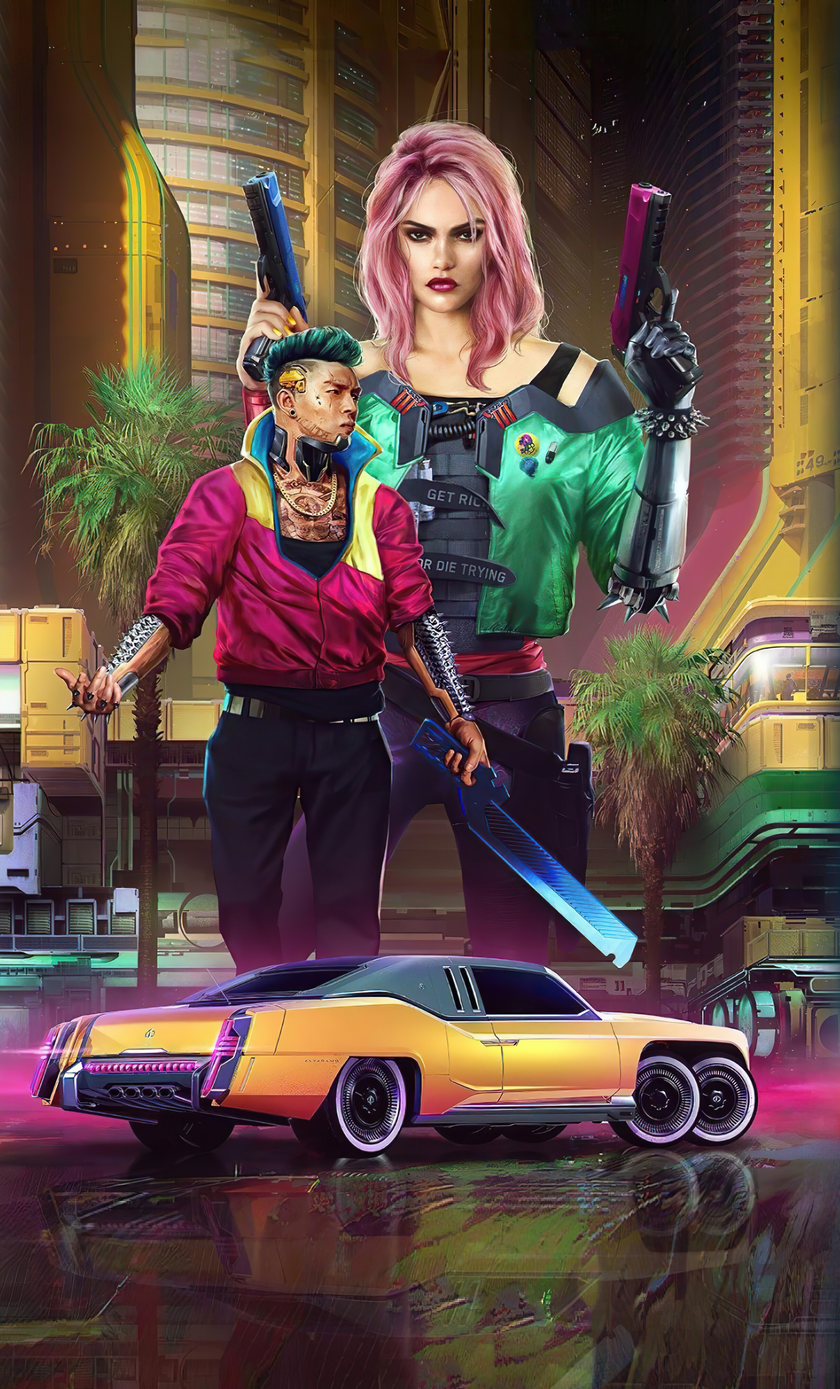
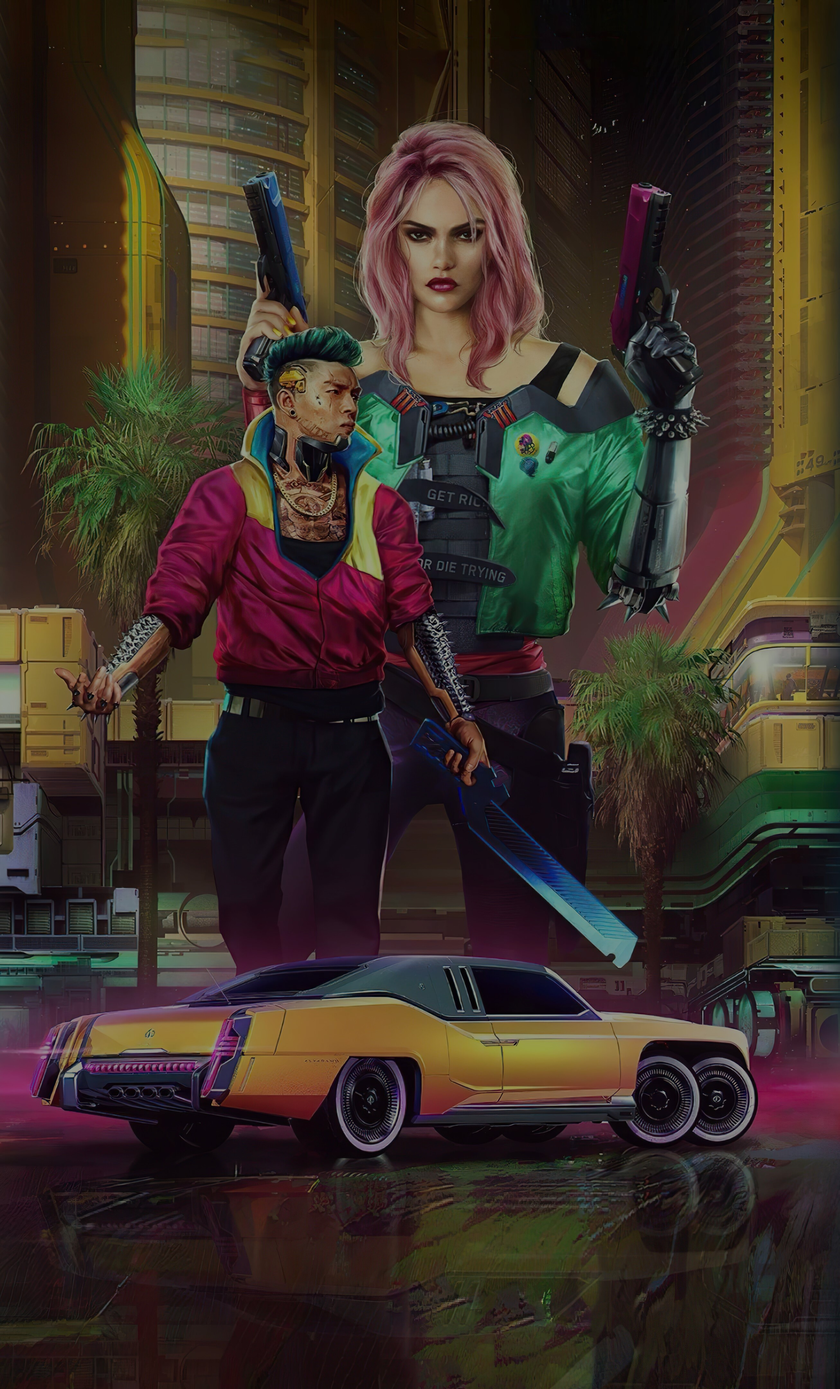
modif max-width, text waiting for, transition reverse, effet brouillé

diff --git a/src/components/content/Formation.js b/src/components/content/Formation.js
@@ -26,7 +26,7 @@ function Formation(){
                         mes compétences et mes connaissances en développement web. Le côté full remote de se 
                         projet professionnel m'a permis de gerer mon temps de travail et d'optimiser mon apprentissage.
                     </cite>
-                    <br></br>
+                    <br></br><br></br>
                     <cite>
                         Commentaire de Fabien Rahaingomanana, mentor Openclassrooms :
                         "Clément est un élève très curieux, qui n'a eu de cesse d'approfondir
@@ -46,7 +46,7 @@ function Formation(){
                     <cite>
                         Formation "préparatoire" dans le but d'aquerrir les bases du développement et 
                         de découvrir les outils mais aussi différent languages de programmation.
-                        Ce fut une formation extrèmement enrichissante tant sur le plan social 
+                        Ce fut une formation extrêmement enrichissante tant sur le plan social 
                         et personnel, que professionnel. Découvrez les recommandations de  
                         <a href={LettreAL} target='blank'> Andréas Livet</a> formateur front-end et
                         <a href={LettreJL} target='blank'> Juliette Lauriol</a> responsable pédagogique à mon sujet.

diff --git a/src/styles/contentStyle/Interets.css b/src/styles/contentStyle/Interets.css
@@ -2,8 +2,7 @@
 .interets{
     width: 100%;
     background: black;
-    border-top: solid #FF635C 2px;
-    border-bottom: solid #FF635C 2px;
+    border: solid #FF635C 2px;
     box-shadow: 0px 0px 15px 1px #FF635C;
 }
 
@@ -62,15 +61,14 @@
     letter-spacing: 2px;
     font-size: 25px;
     color: black;
+    transition: 0.3s linear;
     transform: translateY(-100%);
 }
 
 .interets1:hover + .containerInteretsList > .interetsList{
     transform: translateY(0%);
-    transition: 0.3s linear;
 }
 
 .containerInteretsList:hover .interetsList{
     transform: translateY(0%);
-    transition: 0.3s linear;
 }

diff --git a/src/components/content/AnimationContent.js b/src/components/content/AnimationContent.js
@@ -1,4 +1,3 @@
-import ecranBrouillé from '../../assets/brouille.gif'
 import '../../styles/loader/LoaderContent.css'
 
 function AnimationContent({duration}){
@@ -6,7 +5,7 @@ function AnimationContent({duration}){
 
     return (
         <div>
-            <img id='brouille' className={'fullContainer' + modeDuration} src={ecranBrouillé} alt='brouillé'></img>
+            <div id='brouille' className={'fullContainer' + modeDuration}></div>
             <div className={"container" + modeDuration}>
                 <div className="loaderContent">
                     <p>(CCXS COMPRESSED)</p>

diff --git a/src/styles/contentStyle/Projet.css b/src/styles/contentStyle/Projet.css
@@ -39,6 +39,7 @@
     height: 25rem;
     object-fit: cover;
     opacity: 1;
+    transition: 0.3s;
     transform: scale(1.1);
 }
 
@@ -58,6 +59,7 @@
     height: 20%;
     top: 20%;
     opacity: 0;
+    transition: 0.3s;
 }
 
 .portfolio__text > p{
@@ -76,7 +78,6 @@
 .portfolio:hover .portfolio__text{
     opacity: 1;
     transform: scale(1.1);
-    transition: 0.3s;
 }
 
 .portfolio:hover .portfolio__text > p{

diff --git a/src/components/content/Aptitude.js b/src/components/content/Aptitude.js
@@ -25,7 +25,7 @@ function Aptitude({duration}){
 
                 {stateMode.mode === 'nomade' && 
                     <div className='waitClick'>
-                        <p>AWAIT CLICK ...</p>
+                        <p>WAITING FOR A CLICK...</p>
                     </div>
                 }
                 {stateMode.mode === 'hard skills' && 

diff --git a/src/components/App.js b/src/components/App.js
@@ -21,8 +21,10 @@ function App() {
         {/* effet brouillage lors du click sur un bouton */}
         <div id='invisible'></div>
         <Mode />
-        <Banner />
-        <Content />
+        <div className='centerContent'>
+          <Banner />
+          <Content />
+        </div>
         <Footer />
       </div>
       }

diff --git a/src/styles/loader/LoaderContent.css b/src/styles/loader/LoaderContent.css
@@ -90,11 +90,11 @@
 
   .fullContainer{
     position: absolute;
+    background-image: url(../../assets/brouille.gif);
     width: 100%;
     height: 100%;
     left: 0;
     top: 0;
-    object-fit: cover;
     opacity: 0;
     z-index: 1;
     animation: showScreenContentApropos calc(var(--animDuration) + 0.3s);

diff --git a/src/components/content/Experience.js b/src/components/content/Experience.js
@@ -13,7 +13,7 @@ function Experience(){
             <h2 className='experienceTitle'>Experiences</h2>
 
             <div className='experienceContent'>
-                <p>AWAIT MORE XP ...</p>
+                <p>WAITING FOR MORE XP...</p>
             </div>
 
             <div className='experienceContent'>

diff --git a/src/styles/CyberBtn.css b/src/styles/CyberBtn.css
@@ -14,6 +14,7 @@
     font-weight: bolder;
     letter-spacing: 2px;
     text-transform: uppercase;
+    transition: 0.3s;
 }
 
 .cyberBtn>span{
@@ -26,6 +27,5 @@
 }
 
 .cyberBtn:hover{
-    transition: 0.3s;
     transform: translateY(-3px);
 }

diff --git a/src/styles/contentStyle/Jugement.css b/src/styles/contentStyle/Jugement.css
@@ -44,8 +44,7 @@
     width: 100%;
     margin-top: 3rem;
     background: black;
-    border-top: solid #FF635C 2px;
-    border-bottom: solid #FF635C 2px;
+    border: solid #FF635C 2px;
     box-shadow: 0px 0px 15px 1px #FF635C;
 }
 

diff --git a/src/styles/Banner.css b/src/styles/Banner.css
@@ -2,7 +2,6 @@
 .cvBanner {
   position: relative;
   background: rgb(0, 0, 0, 0.8);
-  margin: 2rem;
   margin-top: 5rem;
   font-family: "Cyberpunk";
   font-size: xx-large;

diff --git a/src/styles/App.css b/src/styles/App.css
@@ -186,3 +186,8 @@ body::after{
     font-size: 40px;
     animation: wiggle 0.8s ease-in-out infinite;
 }
+
+.centerContent{
+    max-width: 1400px;
+    margin: auto;
+}
